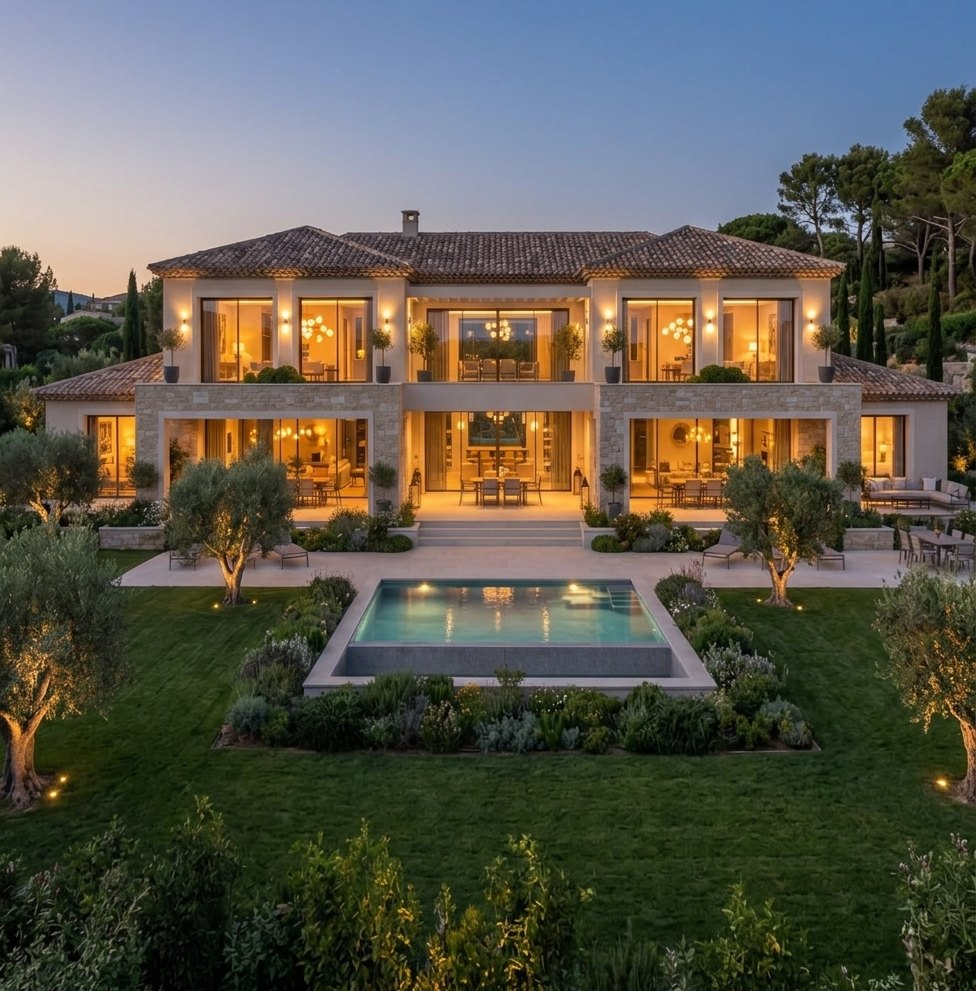
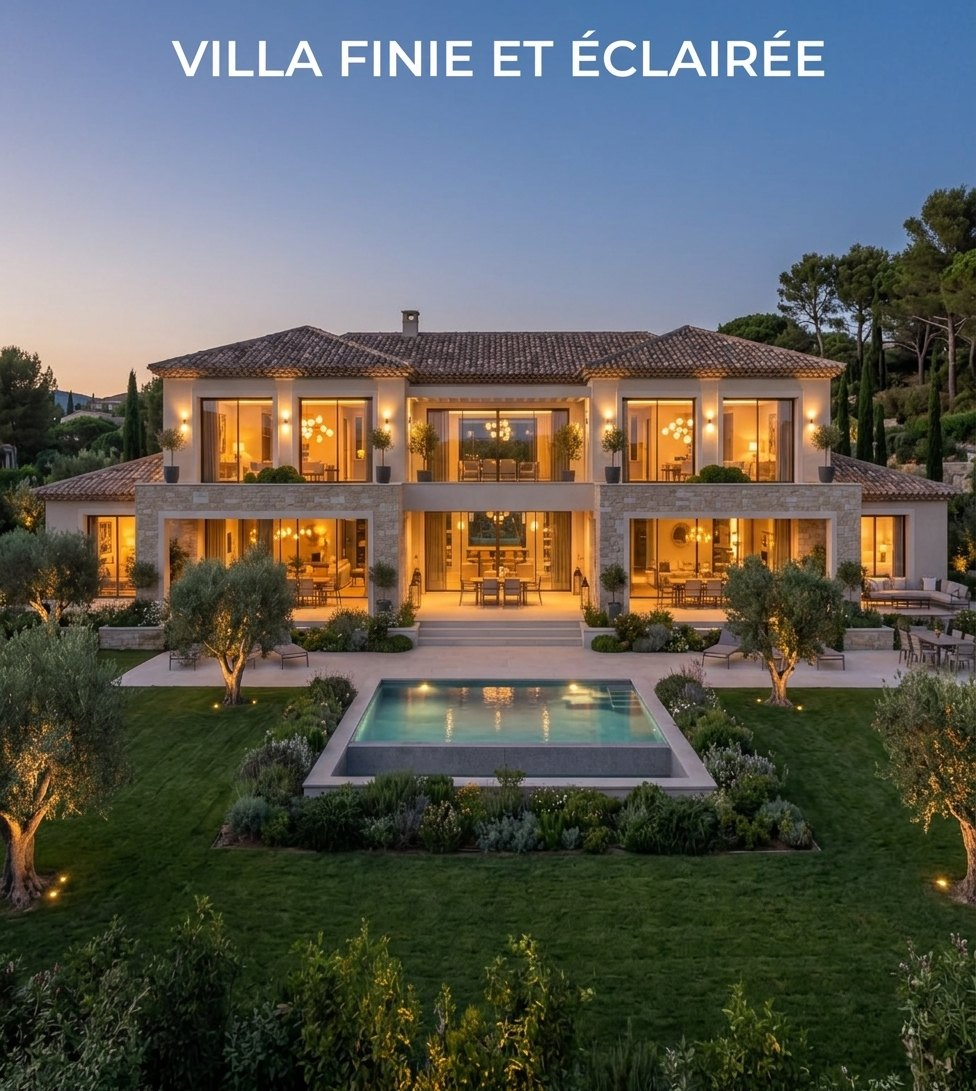
Scan : coupe technique calée sur la moitié droite de la villa
Claude-Session: https://claude.ai/code/session_011S7HZCFc974NFszfB34mtR

diff --git a/assets/css/sigma.css b/assets/css/sigma.css
@@ -418,14 +418,14 @@ input:focus, select:focus, textarea:focus { border-color: var(--calque-texte); o
 /* image « villa finie / coupe technique » : un scan continu révèle le plan technique */
 .coupe { margin: 0; position: relative; border-radius: var(--rayon); overflow: hidden; border: 1px solid var(--trait); background: var(--carte); }
 .coupe-vue { position: relative; overflow: hidden; }
-.coupe-vue img { width: 100%; display: block; aspect-ratio: 16 / 9; object-fit: cover; object-position: center 36%; }
+.coupe-vue img { width: 100%; display: block; aspect-ratio: 16 / 9; object-fit: cover; object-position: center 46%; }
 .coupe-vue > img:first-child { cursor: zoom-in; }
-.coupe-vue .scan { position: absolute; inset: 0; width: 100%; height: 100%; object-fit: cover; object-position: center 45%; pointer-events: none; clip-path: inset(0 100% 0 0); animation: scan-bande 6s cubic-bezier(.45,0,.55,1) infinite alternate; }
-.scan-ligne { position: absolute; top: 0; bottom: 0; left: 0; width: 3px; margin-left: -1.5px; background: var(--calque); box-shadow: 0 0 14px 3px color-mix(in srgb, var(--calque) 70%, transparent), 0 0 40px 8px color-mix(in srgb, var(--calque) 30%, transparent); pointer-events: none; animation: scan-ligne 6s cubic-bezier(.45,0,.55,1) infinite alternate; }
+.coupe-vue .scan { position: absolute; inset: 0; width: 100%; height: 100%; object-fit: cover; object-position: center 46%; pointer-events: none; clip-path: inset(0 100% 0 0); animation: scan-bande 5s linear infinite alternate; }
+.scan-ligne { position: absolute; top: 0; bottom: 0; left: 0; width: 3px; margin-left: -1.5px; background: var(--calque); box-shadow: 0 0 14px 3px color-mix(in srgb, var(--calque) 70%, transparent), 0 0 40px 8px color-mix(in srgb, var(--calque) 30%, transparent); pointer-events: none; animation: scan-ligne 5s linear infinite alternate; }
 .scan-ligne::before, .scan-ligne::after { content: ""; position: absolute; left: -7px; width: 17px; height: 17px; border: 3px solid var(--calque); border-radius: 50%; background: var(--nuit); }
 .scan-ligne::before { top: 10px; } .scan-ligne::after { bottom: 10px; }
-@keyframes scan-bande { 0% { clip-path: inset(0 100% 0 -20%); } 100% { clip-path: inset(0 50% 0 30%); } }
-@keyframes scan-ligne { 0% { left: 0%; } 100% { left: 50%; } }
+@keyframes scan-bande { 0% { clip-path: inset(0 56% 0 44%); } 40% { clip-path: inset(0 34% 0 44%); } 100% { clip-path: inset(0 0 0 78%); } }
+@keyframes scan-ligne { 0% { left: 44%; } 40% { left: 66%; } 100% { left: 100%; } }
 .coupe figcaption { display: grid; grid-template-columns: 1fr 1fr; background: var(--nuit); color: #fff; }
 .coupe figcaption span { padding: 12px 18px; display: grid; font-size: .92rem; color: #c9c9c9; }
 .coupe figcaption span + span { border-left: 4px solid var(--calque); }

diff --git a/index.html b/index.html
@@ -61,8 +61,8 @@
   <p>Ce que le client voit, et ce que nous concevons pour que tout fonctionne. Le scan révèle, derrière la villa finie et éclairée, la coupe technique : poteaux, poutres et chaînages en béton armé, câbles électriques et gaines, adduction d'eau, évacuations et regards.</p></div>
   <figure class="coupe" id="coupe">
     <div class="coupe-vue">
-      <img src="images/villa-finie.jpg" alt="Villa finie et éclairée, avec jardin et piscine" width="976" height="991" loading="lazy">
-      <img class="scan" src="images/villa-technique.jpg" alt="" aria-hidden="true" width="695" height="688" loading="lazy">
+      <img src="images/villa-finie.jpg" alt="Villa finie et éclairée, avec jardin et piscine" width="976" height="1091" loading="lazy">
+      <img class="scan" src="images/villa-technique.jpg" alt="" aria-hidden="true" width="976" height="1091" loading="lazy">
       <span class="scan-ligne" aria-hidden="true"></span>
     </div>
     <figcaption><span><b>Villa finie</b>ce que vous habitez</span><span><b>Coupe technique</b>ce que nous étudions</span></figcaption>
